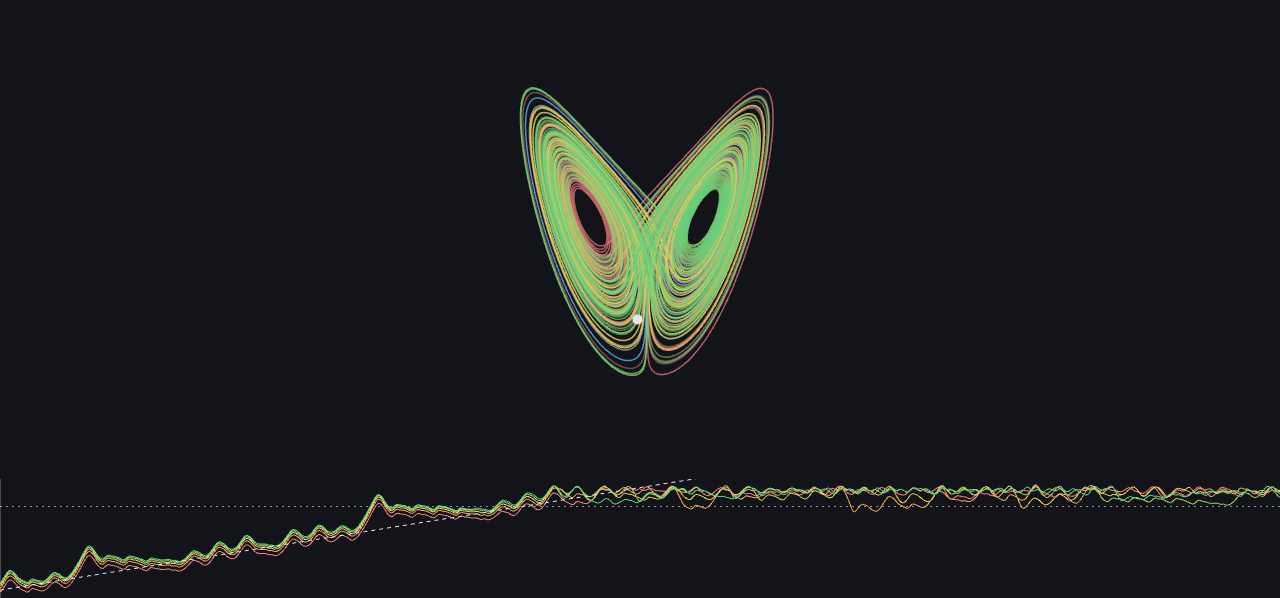
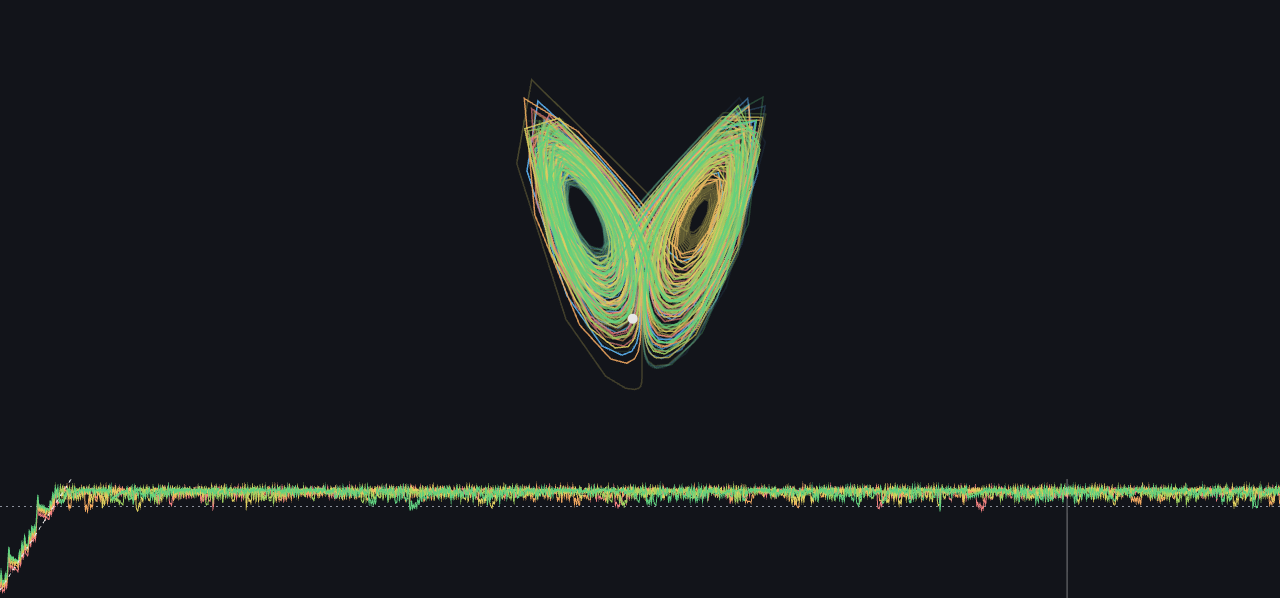
Sync docs and screenshots for long horizons + fading trails
README and CLAUDE.md now describe the 10x horizons, recording stride,
first-crossing Lyapunov window, age-windowed trails with faint t=0 maps,
16x speed range, and the Pythagorean ejection at t~92; screenshots
retaken mid-playback to show the fade behavior.

Changed region(s): [[0.4062, 0.1204, 0.625, 0.6321], [0.0, 0.8127, 1.0, 0.9933]]

diff --git a/CLAUDE.md b/CLAUDE.md
@@ -33,9 +33,10 @@ src/
     ode.ts          Deriv = (t, y) => number[]; rk4Step on flat number[] states
                     (Lorenz 3, n-link pendulum 2n, planar n-body 4n)
     simulate.ts     simulate() -> {ts, ys} bounded by tMax + maxSamples (default
-                    cap 20000) + an optional haltWhen predicate, nonfinite (or
-                    halted) truncation at the last good sample; sampleAt (linear
-                    interp, clamped, empty-safe); duration
+                    cap 20000) + an optional haltWhen predicate + an optional
+                    stride (integrate at dt, record every stride-th step),
+                    nonfinite (or halted) truncation at the last good sample;
+                    sampleAt (linear interp, clamped, empty-safe); duration
     projection.ts   View3 {yaw, pitch}; R = Rx(pitch) * Rz(yaw); project drops
                     the rotated y (screen = [x', z']); unprojectDelta maps
                     screen-plane deltas back to world via R^T
@@ -53,9 +54,15 @@ src/
     ensemble.ts     perturb, runEnsemble (copy k gets +k*epsilon), separation
                     (full-state L2 at shared times), stateExtent (RMS deviation
                     from the time-mean), lyapunovFit (least-squares line through
-                    (t, ln d) for 0 < d < cutoff; null under 2 usable samples)
-  scenes.ts         SCENES: per-tab {dt, tMax, maxSamples, epsScale} (n-body
-                    horizon comes from the active preset); FIT_FRACTION = 0.1
+                    (t, ln d); the window ends at the FIRST cutoff crossing so
+                    saturated-tail dips cannot re-enter and bias the slope;
+                    null under 2 usable samples)
+  scenes.ts         SCENES: per-tab {dt, tMax, maxSamples, stride, epsScale,
+                    fadeWindow} - lorenz 400/stride 2, pendulum 300/stride 5,
+                    recording spacing 0.01 everywhere; fadeWindow (40/30/per
+                    preset) is the age window trails stay visible for (n-body
+                    horizon + fadeWindow come from the active preset, presets
+                    200..600); FIT_FRACTION = 0.1
                     of stateExtent(reference) as the fit cutoff; buildEnsemble -
                     the only place simulations are built (the n-body branch
                     passes haltWhen: any body beyond 3 * halfExtent truncates
@@ -68,7 +75,7 @@ src/
                     ensemble perturbation), notify-only when unchanged
   ui/
     topbar.ts       three-tab switcher (Lorenz / Pendulum / N-body)
-    playback.ts     play/pause, reset, scrubber, speed
+    playback.ts     play/pause, reset, scrubber, speed (0.25x..16x)
     controls.ts     sliderRow and numRow (clamped text field, commits on
                     Enter/blur, edit-safe refresh) -> ControlRow {el, refresh};
                     buttonRow, hitTest; attachDrag distinguishes taps (<= 4 px)
@@ -81,8 +88,11 @@ src/
     viewport.ts     uniform min-fit world<->screen transform, y up (port)
     draw.ts         COLORS (CSS custom props resolved once at module load),
                     ensembleColor (10 distinct hues, k % length), drawFadingTrail
-                    (alpha 0.05 -> 0.9 toward the head), drawDivergenceStrip
-                    (log10 d vs t per copy, dashed fit line, playhead)
+                    (alpha ramp toward the head; optional windowPts draws only
+                    the trailing window, ~0 -> 0.9), drawTrailMap (uniform faint
+                    full-trajectory map for the paused t=0 state),
+                    drawDivergenceStrip (log10 d vs t per copy, dashed fit line,
+                    playhead; series decimated to ~2 pts/px)
     lorenzScene.ts  projected butterfly; empty-canvas drag rotates (setView),
                     IC-dot drag moves y0 through unprojectDelta; rho slider
                     plus x0/y0/z0 typed fields (numRow)
@@ -107,11 +117,16 @@ Invariants worth keeping:
   One simulation code path, so trails and playback cannot disagree.
 - delta0 = k*epsilon is deterministic; the Lyapunov fit and the tests know it
   exactly. The default Lorenz IC (-1.39, -2.47, 11.86) starts on the attractor
-  (butterfly visible on load; the on-load fitted lambda reads ~0.86 against the
-  canonical 0.906). The Lorenz-classic fitted lambda must stay in [0.6, 1.2]
-  and the pendulum energy drift under 1e-4 over the full horizon - those unit
-  tests are the honesty contract behind the captions; never loosen them to make
-  a change pass.
+  (butterfly visible on load as a faint map; the on-load fitted lambda reads
+  ~0.84 against the canonical 0.906). The Lorenz-classic fitted lambda must
+  stay in [0.6, 1.2] and the pendulum energy drift under 1e-4 over the full
+  300-unit horizon (measured 3.2e-8) - those unit tests are the honesty
+  contract behind the captions; never loosen them to make a change pass.
+- Trails are age-windowed during playback: only the trailing fadeWindow of
+  history draws (bright ramp), older samples vanish; paused t=0 shows the whole
+  run as a uniform faint map (drawTrailMap). The Pythagorean preset's reference
+  genuinely halts near t ~ 92 (its famous ejection crosses 3 * halfExtent), so
+  its playable horizon ends there - physics, not a bug.
 - The pure core never throws: clamps, stop conditions, nonfinite truncation.
 - setView notifies without recompute; selectBody recomputes on a changed
   index (it retargets the perturbation), notifies only when unchanged;

diff --git a/README.md b/README.md
@@ -25,7 +25,7 @@ type exact x0/y0/z0 coordinates. The default start sits on the attractor, so
 the butterfly is fully formed on load. Slide rho below ~24.74 and the strange
 attractor dies - that transition is the whole point of the slider. The
 divergence slope estimates the largest Lyapunov exponent: canonical 0.906,
-on-load fit ~0.86, and a unit test pins the fit inside [0.6, 1.2].
+on-load fit ~0.84, and a unit test pins the fit inside [0.6, 1.2].
 
 ### Pendulum
 
@@ -50,9 +50,12 @@ angular momentum readouts keep the integrator honest.
 ![gravitational n-body](docs/screenshots/nbody.png)
 
 Shared everywhere: a K slider (2..10 copies), a log-scale perturbation size,
-and playback (play/pause, reset, scrubber, speed) over precomputed
-trajectories - scrubbing back to the exact moment the copies split costs
-nothing.
+and playback (play/pause, reset, scrubber, speeds up to 16x) over long
+precomputed horizons (400 time-units for Lorenz, 300 for the pendulum,
+200..600 per n-body preset). Trails fade with age: the recent stretch stays
+bright while the deep past dims away, and the paused start state shows the
+whole trajectory as a faint map. Scrubbing back to the exact moment the
+copies split costs nothing.
 
 ## Quick start
 
@@ -66,9 +69,13 @@ nothing.
 One fixed-step RK4 integrator (`src/sim/ode.ts`) advances flat `number[]`
 states: Lorenz is 3 numbers, the n-link pendulum 2n, the planar n-body 4n.
 `simulate()` (`src/sim/simulate.ts`) records a bounded sample table (tMax, a
-sample cap, nonfinite truncation at the last good sample, and an optional halt
-predicate - n-body ensemble members that fly beyond three times the preset's
-half-extent truncate early and freeze at their last sample during playback);
+sample cap, a recording stride - it integrates at full dt for accuracy but
+stores every k-th sample to keep the long horizons cheap - nonfinite
+truncation at the last good sample, and an optional halt predicate - n-body
+ensemble members that fly beyond three times the preset's half-extent
+truncate early and freeze at their last sample during playback; at the new
+600-unit horizon the Pythagorean problem genuinely ends this way, with its
+famous ejection near t ~ 92);
 playback and trails interpolate the same samples, so they cannot disagree.
 `src/sim/ensemble.ts` builds the perturbed copies (delta0 = k*epsilon is known
 exactly), measures full-state L2 separation, and fits lambda by log-linear
